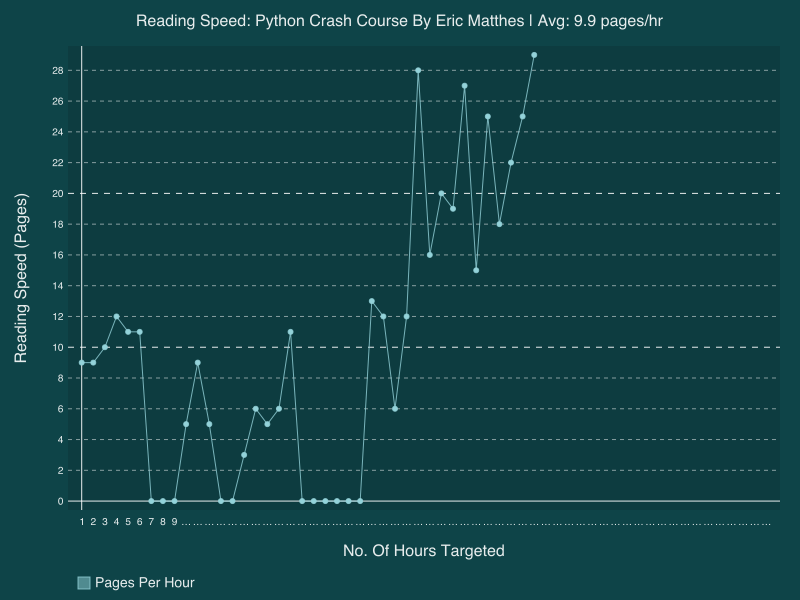
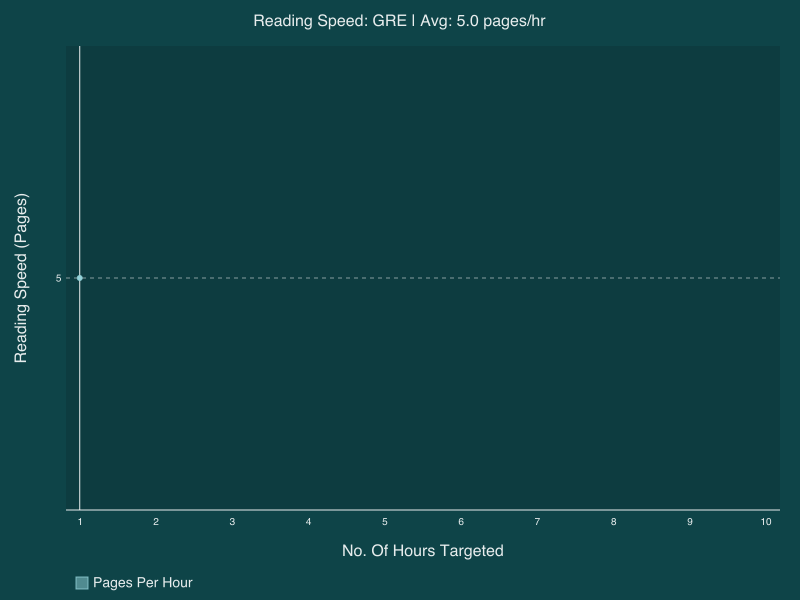
m 27

diff --git a/learn.py b/learn.py
@@ -2,23 +2,22 @@ import pygal
 import numpy as np
 from pygal.style import TurquoiseStyle
 #Assumed time 10hrs/day, 6days in total (28 Dec - 2rd Jan)
-time_span = 60
+time_span = 2*5
 #total pages ignoring acknowledgement prefatce 
-total_pages = 519
+total_pages = 236
 #ideal spead to finish in 6 days (pages / hr)
-ideal_increment = 519/60
+ideal_increment = total_pages/time_span
 #pages read per hour
 reading_progress = [
-    #28 dec
-    10,19,28,38,50,61,72,72,72,72,
-    #29 dec
-    77,86,91,91,91,94,100,105,111,122,
-    #30 dec
-    122,122,122,122,122,122,135,147,153,165,
-    #31 dec
-    193,209,229,248,275,290,315,333,355,
-    #2nd jan
-    380,409,519
+    #before
+    0,5,
+    #27 Mar
+    5,
+    #28 March
+    
+    #29 March
+    #30 March
+    #31 March
     ]
 
 #percentage 
@@ -34,7 +33,7 @@ burn_down_chart = pygal.Line(
     style=TurquoiseStyle,
     x_title='No. Of Hours Targeted',
     y_title='Total No of pages in the book')
-burn_down_chart.title = 'Burndown Chart: Python Crash Course By Eric Matthes | '+reading_percentage+'% Complete'
+burn_down_chart.title = 'Burndown Chart: GRE | '+reading_percentage+'% Complete'
 burn_down_chart.x_labels = map(str,range(1,time_span+1))
 
 #ideal reading array
@@ -68,7 +67,7 @@ reading_speed = pygal.Line(
     x_title='No. Of Hours Targeted',
     y_title='Reading Speed (Pages)')
 
-reading_speed.title = 'Reading Speed: Python Crash Course By Eric Matthes | Avg: '+average_speed+' pages/hr'
+reading_speed.title = 'Reading Speed: GRE | Avg: '+average_speed+' pages/hr'
 reading_speed.x_labels = map(str,range(1,time_span+1))
 reading_speed.add("Pages Per Hour",pages_per_hour)
 reading_speed.render_to_png('reading_speed.png')
